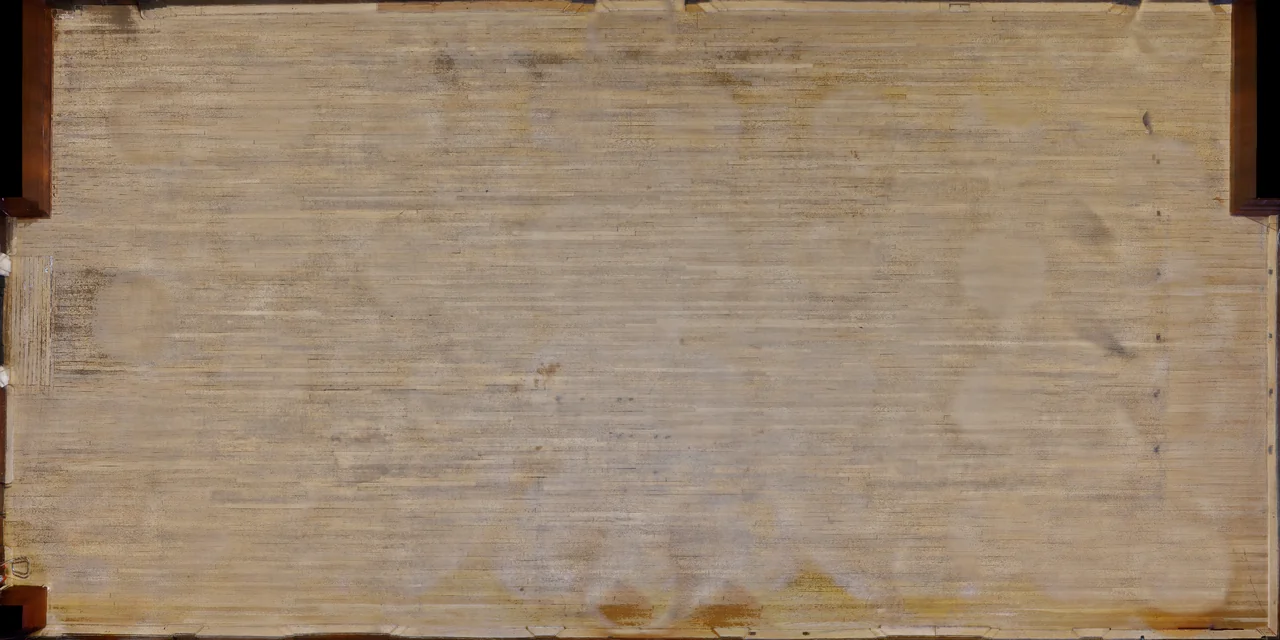
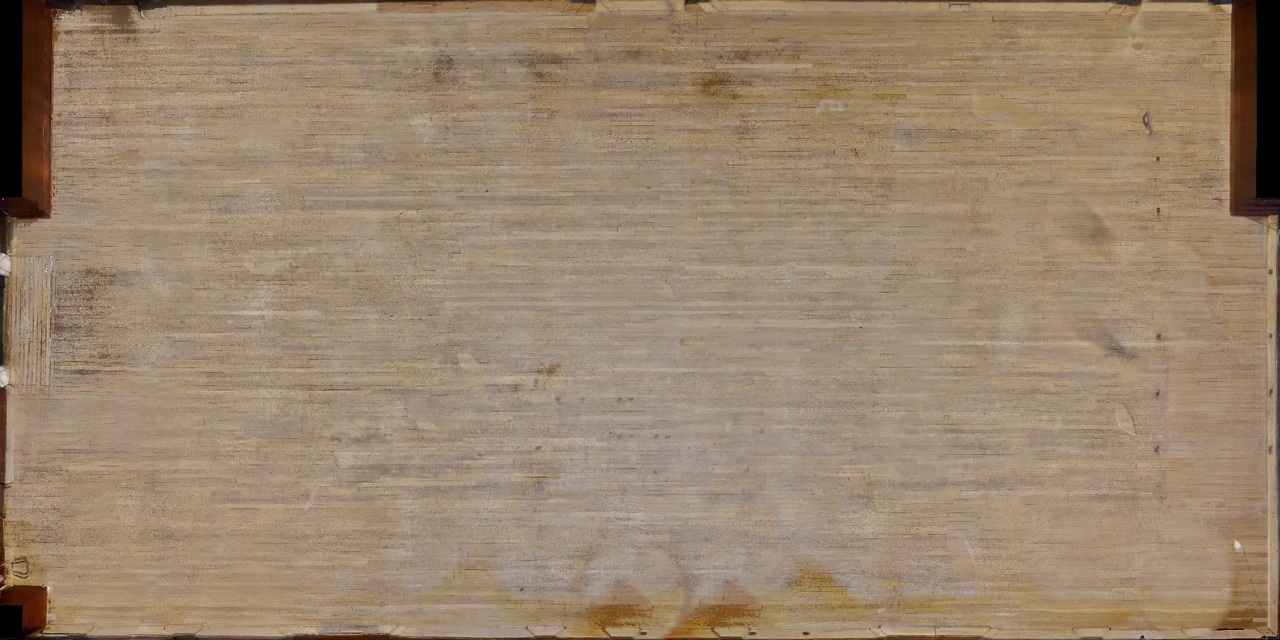
Publish the floor rebuilt with whole tripod patches discarded (T-652)
The floor no longer keeps rings or pale wedges where a panorama's tripod
patch enclosed filled-in boards (stations 046 and 010 near the middle of the
floor, 002 and 044 by the end wall, 042, 039 and 040 by the windows):
those discs take the same boards 1.8 m along the hall. With the adaptive
nadir weighting the soft circle under each station is largely gone; faint
mottling remains by the windows.

HALL_SURVEY_REVISION is 2, so browsers holding the earlier files (an
hour's cache, a week's stale-while-revalidate) fetch the rebuilt walls,
relief and floor. Full photographs 2.79 MB, phones' half set 0.79 MB.

Claude-Session: https://claude.ai/code/session_01PDwhS3vQxkmz6JbzsXuQHx

diff --git a/packages/web/src/components/grand-hall/hall-photos.ts b/packages/web/src/components/grand-hall/hall-photos.ts
@@ -31,7 +31,7 @@ export const HALL_PHOTO_BASE = "/rooms/grand-hall/survey-2026-07-11";
  * served with an hour's cache and a week's stale-while-revalidate, so a new
  * build must never meet an old atlas or relief kept by a browser.
  */
-export const HALL_SURVEY_REVISION = 1;
+export const HALL_SURVEY_REVISION = 2;
 
 /** A survey file's URL, at this revision. */
 export function hallSurveyUrl(file: string): string {

diff --git a/docs/state/tasks.md b/docs/state/tasks.md
@@ -96,7 +96,7 @@ Updated: 2026-10-09.
 
 | ID | Title | Status | I | E | Depends | Source | Notes |
 |---|---|---|---|---|---|---|---|
-| T-652 | Draw the Grand Hall in the planner as surveyed: the walls' scanned relief and the scan's own photographs on every surface, relit by mood, with Plan, Room and Walk views and a reproducible survey build. | in-progress | 5 | 3 | T-639 | USER-2026-10-09 "make it even more impressive … use the e57 data/panoramic images of the empty hall and blueprints as data" | Code `packages/web/src/components/grand-hall/`, data `public/rooms/grand-hall/survey-2026-07-11/` (3.0 MB full set), pipeline `tools/grand-hall-survey`. Unit suite, typecheck, lint, build and the Grand Hall e2e cases pass locally; screenshots read. Open: the GPU gate's RTX 4090 run (in scope), merge and deploy, device frame times, Blake's aesthetic acceptance. [Note](../engineering/grand-hall-model.md). |
+| T-652 | Draw the Grand Hall in the planner as surveyed: the walls' scanned relief and the scan's own photographs on every surface, relit by mood, with Plan, Room and Walk views and a reproducible survey build. | in-progress | 5 | 3 | T-639 | USER-2026-10-09 "make it even more impressive … use the e57 data/panoramic images of the empty hall and blueprints as data" | Code `packages/web/src/components/grand-hall/`, data `public/rooms/grand-hall/survey-2026-07-11/` (3.1 MB full set), pipeline `tools/grand-hall-survey`. Unit suite, typecheck, lint, build and the Grand Hall e2e cases pass locally; screenshots read. Survey build reproduced from the public twin (ceiling and dome byte for byte; walls, relief and floor rebuilt with the final tools, revision 2). Open: Blake's go-ahead for the PR, then the GPU gate's RTX 4090 run (in scope), merge and deploy; device frame times; Blake's aesthetic acceptance. [Note](../engineering/grand-hall-model.md). |
 | T-651 | The living timetable (goal 19): the client proposes the when on the ribbon as a hold, the office inks it with the price following, the Day Board shows green, amber and red by phase on one corrected clock, requests and direct messages land on the slot within a second with exactly one owner, escalation, email and push beyond the glass, kiosk and offline hardening, a three-identity live check and the usability run. | in-progress | 5 | 18 | T-556, T-557, T-537, T-538, T-539, T-633, slice 10 (0077) | USER-2026-10-08 | [Goal 19](../../goals/19-the-living-timetable.md), [execution board](../../goals/EXECUTION.md). Recorded as T-651: the goal file carried T-646, already allocated here to the Startups application. Worktree `D:/claude/goal19-living-timetable/repo`, branch `claude/living-timetable` from origin/master `01a779b8`. S0 (ownership, [people matrix](../operations/people-matrix.md) draft, [attention system](../design/living-timetable/attention-system.md), migration numbers: next 0086) committed `a573129a`, PR #56 green. S1 contracts committed `3607b395`: conversations types and tables (0087, written as 0086), widened requests, D2 capabilities, services, routes; 36 types, 44 door and 35 disposable-Postgres tests pass, typecheck and lint clean. S2 transport committed on the branch: `conversation.command` and `conversation.event` on `/ws/diary` through the same ledger with replay authorisation, `serverNowMs` on every frame, cursor replay then caughtUp, the corrected clock, the client poll; 6 ledger, 29 hub and 13 web transport tests pass. Merging is refused by the auto-mode permission classifier, so nothing is merged or deployed; Blake must allow merges or merge PR #56 and the S1 PR himself. S3 core committed on the branch: state v2 (lanes, next boundary, UNOWNED rail, next action, icon-verb-tone per state, attention ring), board geometry and the one corrected clock with boundary-exact ticks; 56 tests pass and the full API suite exits 0 against the disposable Postgres. S3 page and stylesheet rebuilt and committed to D7 (phone: one lane at a time; wall: inert, D11), with per-breath epoch phase, instant freeze on a socket drop, the corrected clock for read stamps and the legend ring channel; typecheck, lint and 182 unit tests green; the e2e passes 4 of 4 and the visual harness 28 of 28 against a warm dev server (screenshots read). Merged to master on 9 Oct as 0586ab03 (PR #56; CI green; the browser gate admitted the rebuilt spec's four cases). Deployed 9 Oct: web on Vercel 02:35 UTC, API on Railway 02:37 (health/version reports 0586ab03), migration 0087 applied by Deploy run 37876171234 at 02:48; venviewer.com serves the rebuilt Day Board chunk. Not yet accepted: the three-identity production check waits on human input 3 (a hallkeeper account) and Blake's eyes. Hazard recorded: Railway redeploys the API on the master push while the Deploy migrates only after CI, so the new API ran about eleven minutes ahead of 0087. Absorbs goal 04, goal 05 S1/S2/S3/S5, the Day Board plan S3–S5 and plan 18 F-04/05/06/08. |
 | T-650 | Give the Event Architect its language half: typed event briefs read by Claude from a planner's own words. | in-progress | 5 | 2 | T-481 | USER-2026-10-08 "implement all of them" | Extends T-646's Anthropic provider with structured outputs (gateway unchanged; X1's guarantees hold). `POST /event-architect/brief-drafts` reads a scrubbed description into an unchecked `EventBriefDraft` with assumptions and unsupported items, never clamped; "Describe the event" previews and fills the form, nothing runs until Generate. 21-case eval and live script. [Note](../engineering/ai-event-briefs.md). Live accuracy unmeasured until a key is set. |
 | T-648 | Martyn's Law readiness on the hallkeeper setup sheet: operator-entered prompts for the Terrorism (Protection of Premises) Act 2025, never compliance claims. | in-progress | 4 | 2 | T-638 | USER-2026-10-08 "implement all of them" (research recommendation, completeness.md row 3; roadmap items 42 and 44) | T-635 handover rules: prompts only, nothing may claim or imply compliant/approved/safe/certified; every value operator-entered with "Not set"/"Not checked" otherwise; capacities only from venue truth; event headcount from the entered guest count; tier left to the venue's responsible person. Built on claude/t648-martyns-law: editor block, sheet section (Prepare, Brief, print), PDF section, copy guard, cross-venue PostgreSQL tests. [Engineering note](../engineering/martyns-law-readiness.md), [session](../sessions/2026-10-08.md). |

diff --git a/docs/sessions/2026-10-09.md b/docs/sessions/2026-10-09.md
@@ -23,7 +23,9 @@
 - The reference he sent, sael.net/interior, is Ryan Sael's copyrighted work. Nothing of it was copied (no code, assets or design); it served only as a bar for smoothness and polish.
 - Data: only the public Trades Hall twin (the 11 July 2026 E57 capture of the empty hall: manifest, the 49 Grand Hall stations' 8K panoramas, the reviewed dollhouse mesh). The blueprint `E:\SECOND 2010.pdf` is on Blake's PC and was not reachable from this cloud session; every dimension in `hall-spec.ts` was measured from the mesh instead (`tools/grand-hall-survey/measure`).
 - Built: the walls are the scan's relief (four meshes, 35,185 triangles, within 5 mm of the mesh); walls, floor, coffered ceiling and dome wear the panoramas projected onto the measured surfaces with occlusion tested against per-station depth maps; Daylight shows the room as photographed and Evening and Candlelight relight it from baked channels, with glass following the sky; Plan, Room and Walk views glide through the planner's own transition; the cutaway opens the room from above; a five-step caption counts the surfaces in through the shared Activity indicator. The pipeline that makes every file is in `tools/grand-hall-survey` with a README listing each edit made by hand (equipment patched out, two open doors closed, floor reflections flattened). [Engineering note](../engineering/grand-hall-model.md).
+- Survey build reproduced on this container from the public twin alone (`tools/grand-hall-survey/build.sh`, about two hours on four cores): the ceiling and dome came out byte for byte. The published walls, relief and floor come from that build with the final tools: a strong tripod patch (some panoramas fill in a ring around boards that look real) is discarded out to its outer edge, and the floor beneath those stations is refilled from the same boards 1.8 m along, as for the four bay and doorway stations (it had left rings, two near the middle of the floor); a neighbouring wall's bench no longer stands in the fire-door corner's relief. `HALL_SURVEY_REVISION` is 2, so browsers fetch the rebuilt files.
 - Not changed: the planner's furniture, placement and saved layouts. One design change for Blake to judge: furniture nameplates now show only over the items in hand, in every room (a plate over every labelled table covered the layout).
-- Device finish: phones load the half-size photographs (0.78 MB instead of 2.70 MB); a software rasteriser also drops the reflection map and the chandeliers' lights for a soft fill. Without that, the hall made the CPU browser suite slower; with it, the Grand Hall editor-interactions cases ran in 14.9–16.0 s against 14.2–15.3 s on master, measured back to back on this container.
-- Verified: web unit suite, web typecheck (src and e2e), lint, production build (CI's build-check key; EditorPage chunk 221.8 → 241.1 kB gzip); e2e `editor-interactions` 16/16 and the button audit's planner cases (the representative case now drives the hall's own controls) on the container's Chromium against the dev server; the production build's planner (Room and Plan) and the lab's Walk in each light read as screenshots.
-- Limits: no frame-time measurement on the declared devices; the change is inside the GPU gate's scope (it touches `components/scene` and three importers), so the RTX 4090 run is required before merge; the splat hold is unchanged, so production shows the model only; the floor keeps a faint soft mottling; Blake's aesthetic acceptance is open.
+- Device finish: phones load the half-size photographs (0.79 MB instead of 2.79 MB); a software rasteriser also drops the reflection map and the chandeliers' lights for a soft fill. Without that, the hall made the CPU browser suite slower; with it, the Grand Hall editor-interactions cases ran in 14.9–16.0 s against 14.2–15.3 s on master, measured back to back on this container.
+- Verified: web unit suite (614 files, 8,470 tests), web typecheck (src and e2e), lint, production build (CI's build-check key; EditorPage chunk 221.8 → 241.6 kB gzip); e2e `editor-interactions` 16/16 and the button audit's planner cases (the representative case now drives the hall's own controls) on the container's Chromium against the dev server; the production build's planner (Room and Plan) and the lab's Walk in each light read as screenshots.
+- Limits: no frame-time measurement on the declared devices; the change is inside the GPU gate's scope (it touches `components/scene` and three importers), so the RTX 4090 run is required before merge; the splat hold is unchanged, so production shows the model only; the floor keeps faint soft mottling by the windows, glare the scan's views could not separate; Blake's aesthetic acceptance is open.
+- State: committed and pushed on `claude/grand-hall-planner-redesign-ax7kgh`; not merged or deployed. This cloud session may open a pull request only at Blake's explicit request, so the PR, the GPU gate's run and the release wait on his go-ahead.

diff --git a/docs/engineering/grand-hall-model.md b/docs/engineering/grand-hall-model.md
@@ -60,7 +60,7 @@ photograph, flat walls for the relief) and the caption says planning is unaffect
 fetched at a revision (`HALL_SURVEY_REVISION`), raised whenever they are rebuilt in place.
 
 How much of the finish a device carries is `hall-finish.ts`: phones load the half-size photographs
-(0.78 MB instead of 2.70 MB); a software rasteriser, read from the canvas's own WebGL context with
+(0.79 MB instead of 2.79 MB); a software rasteriser, read from the canvas's own WebGL context with
 no probe context, also leaves out the reflection map and the chandeliers' lights for a soft fill.
 
 ## Checks
